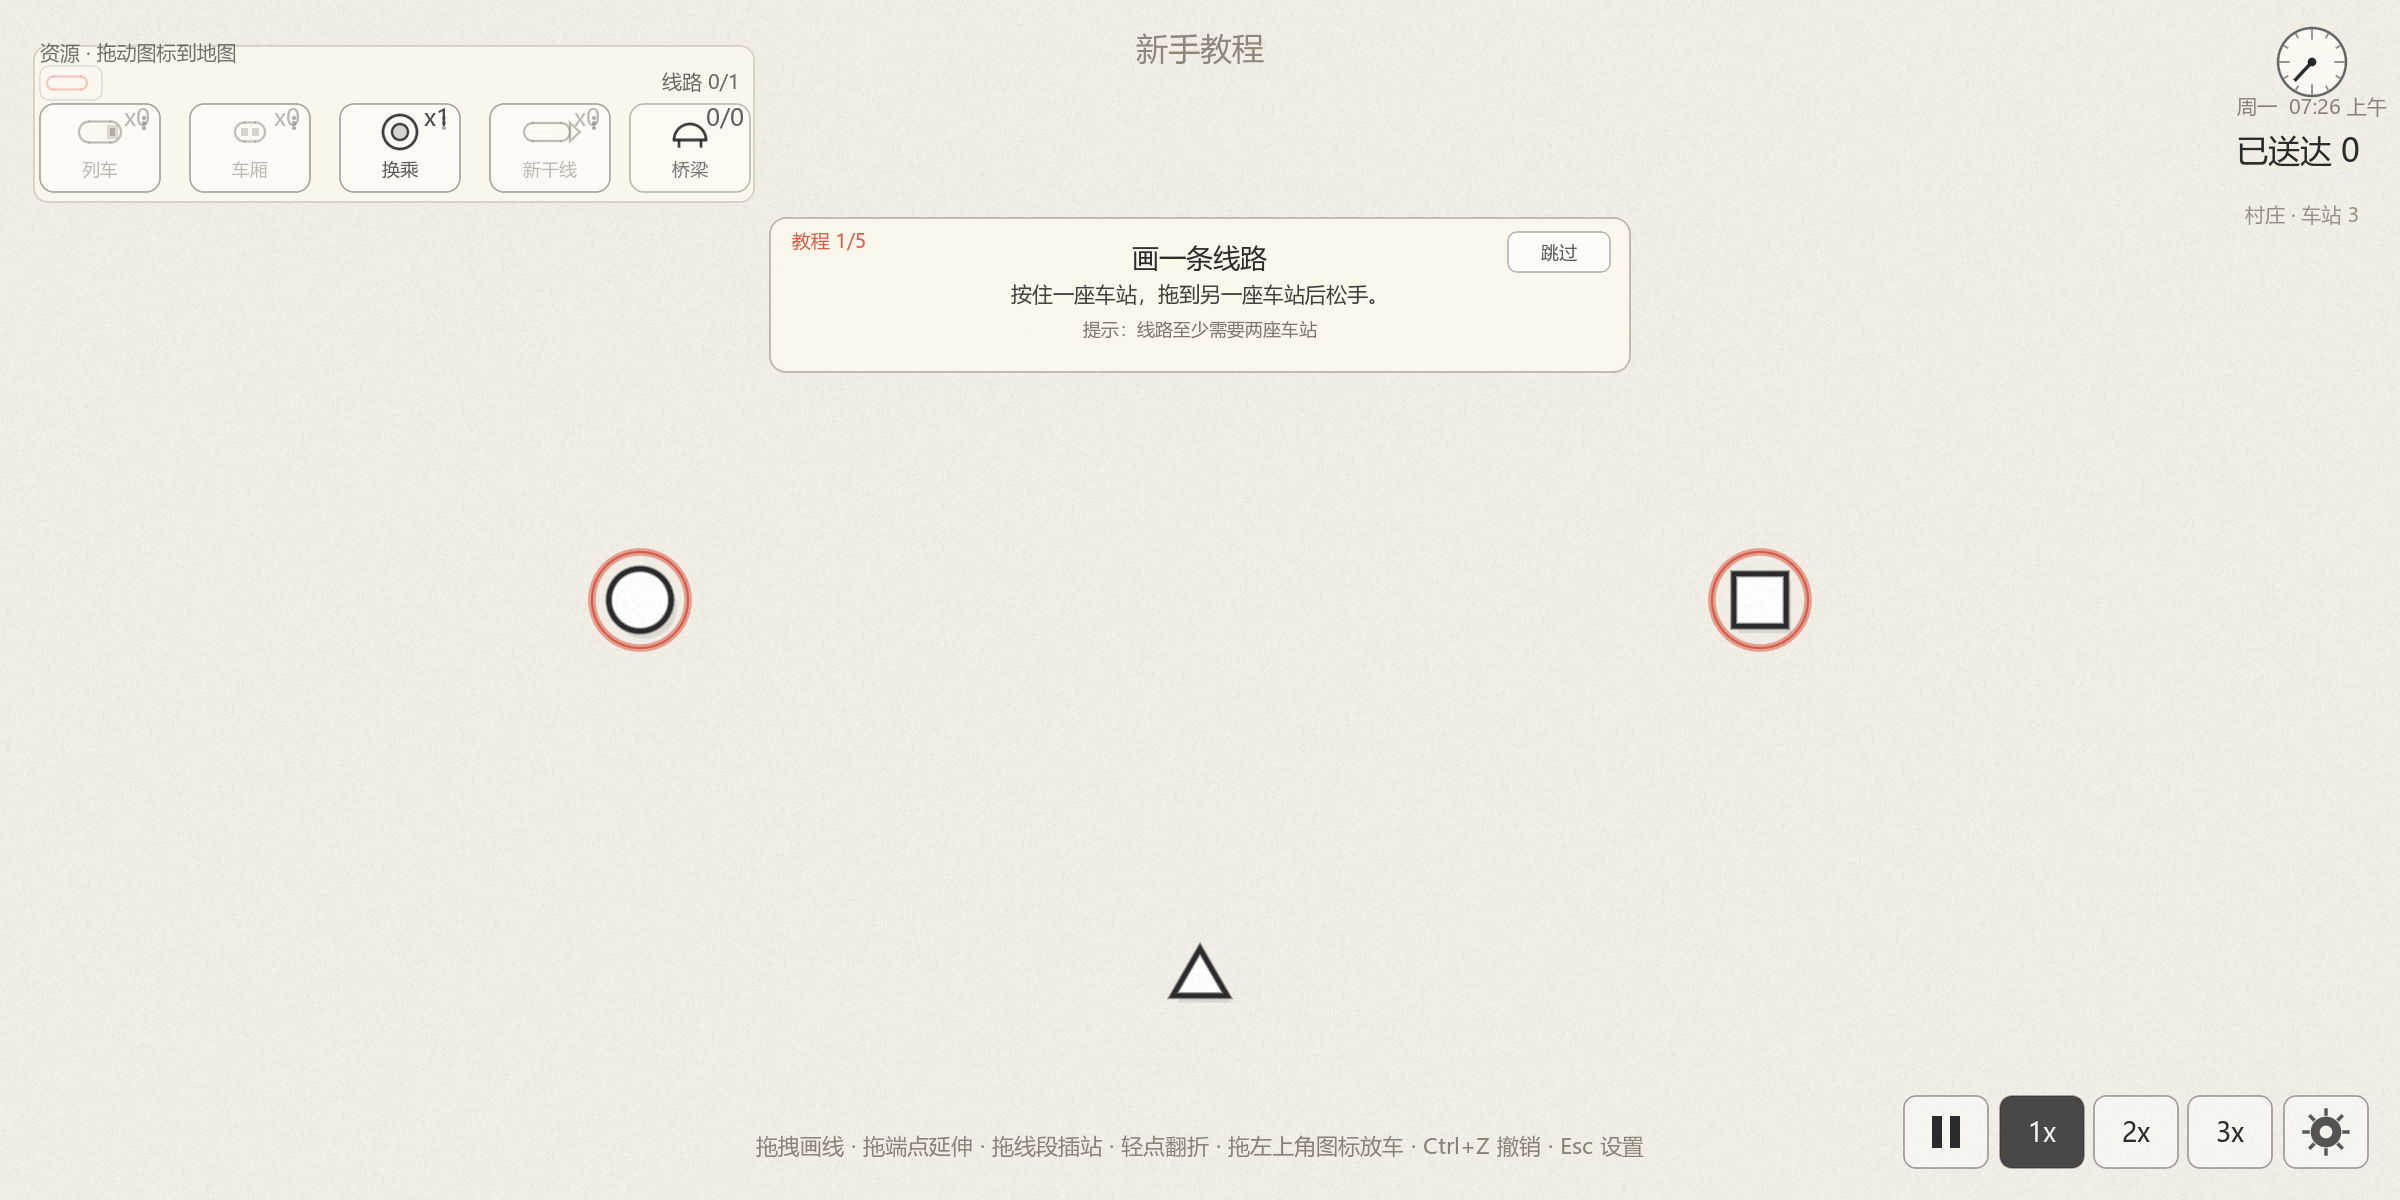
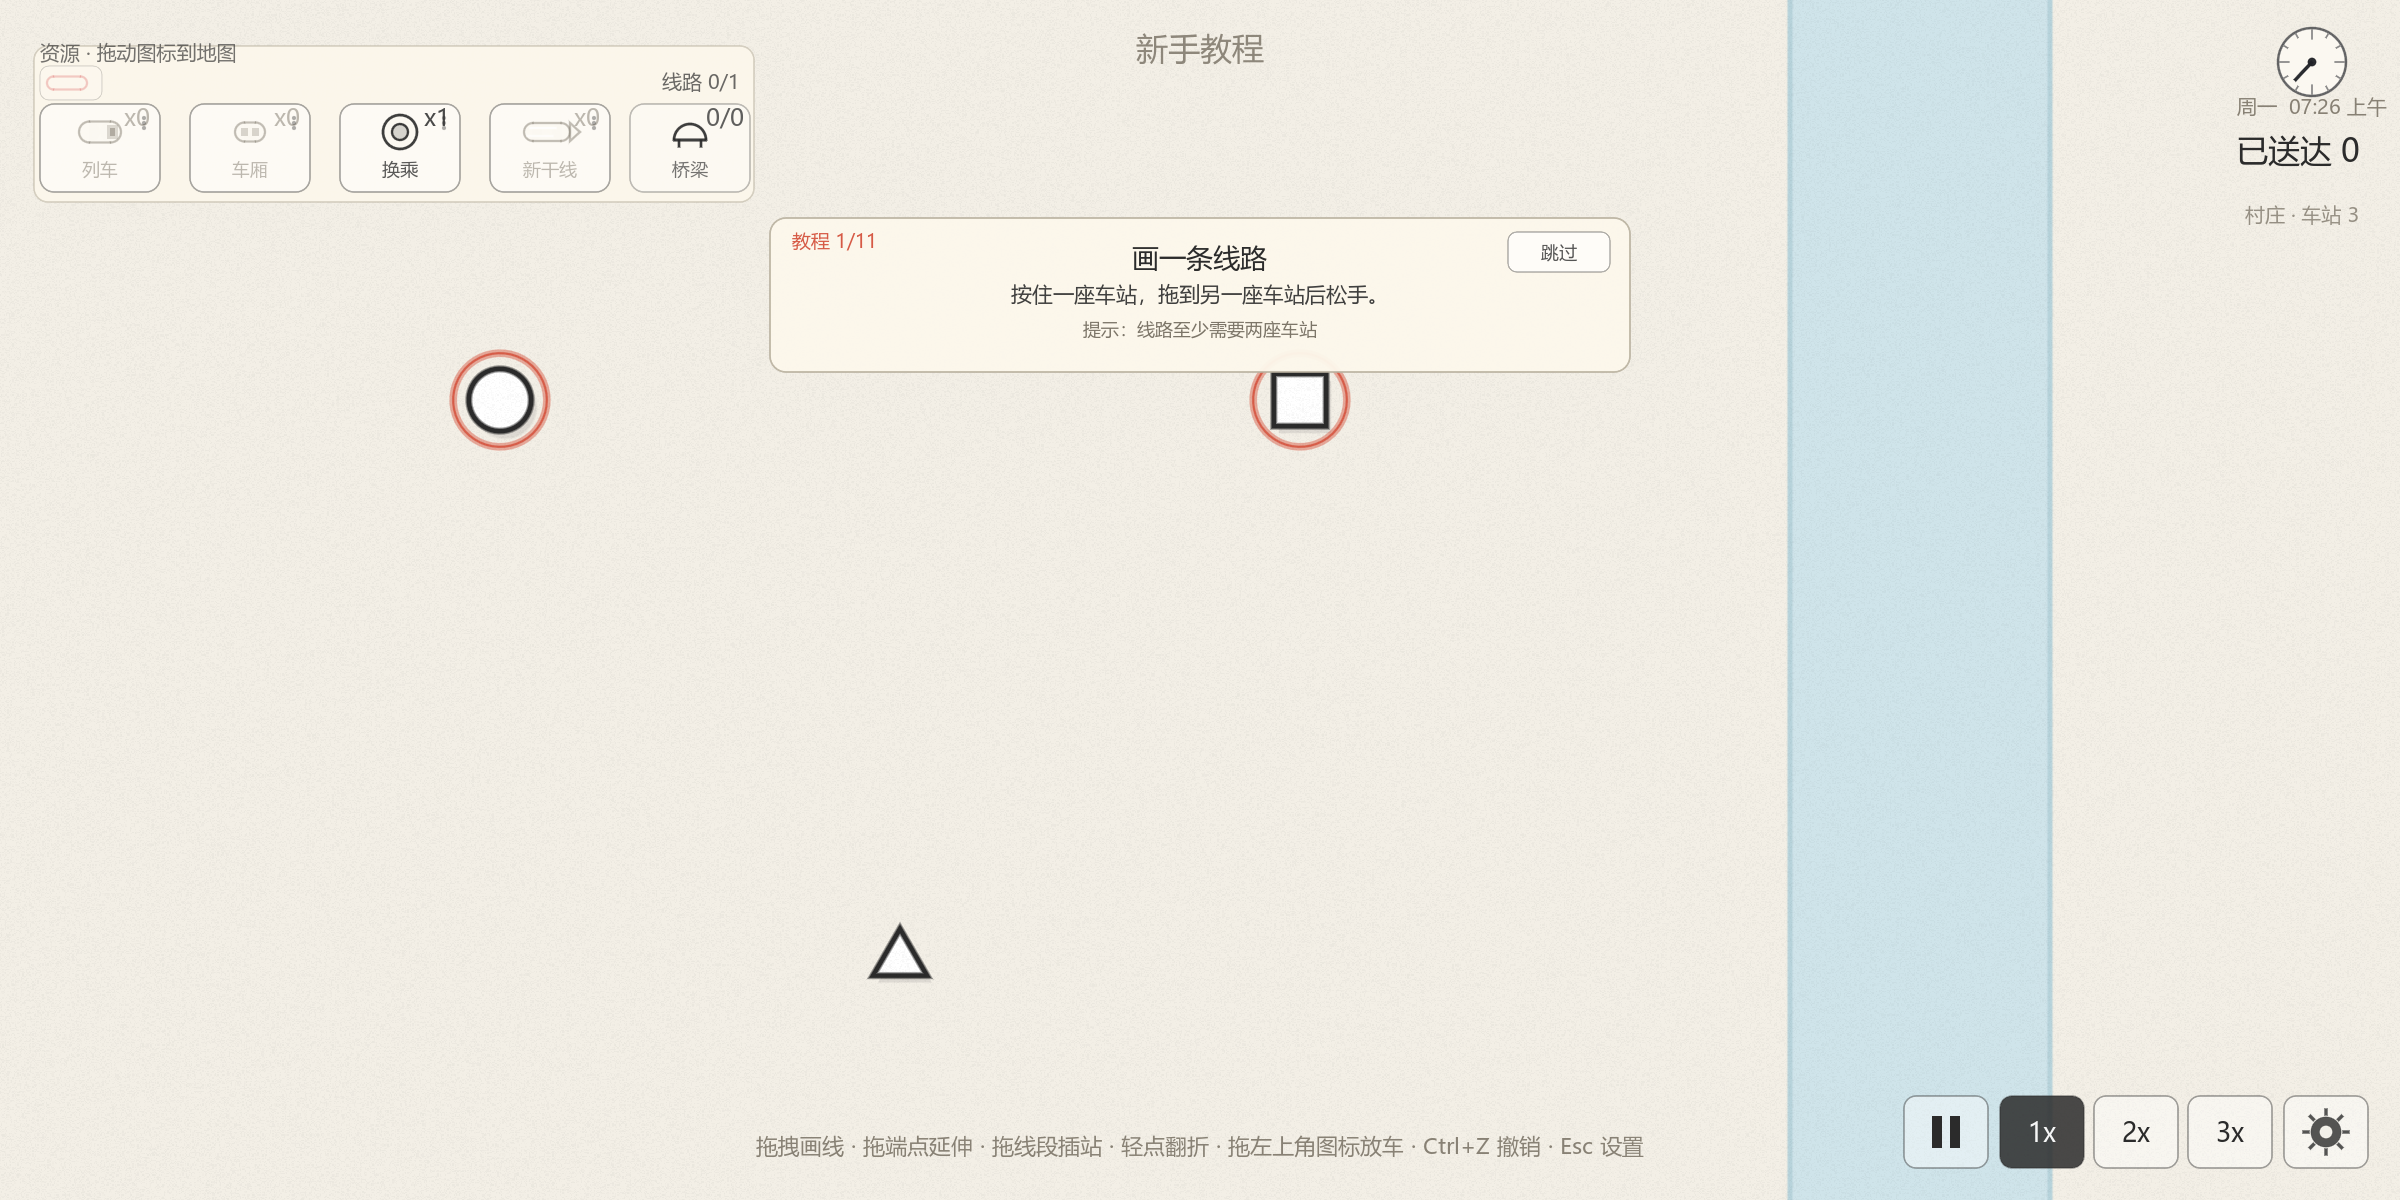
Expand tutorial to 11 steps covering editing, loops, bridges, transfers and upgrades
- Tutorial now starts with three stations, then progressively introduces a fourth
  station, loop closing, a river, a second line + bridge, a second train and a
  transfer passenger.
- Step 11 uses the normal weekly-card flow to teach upgrades; tutorial still
  grants no best score and disables auto-assignment so vehicle steps are manual.
- Fixed tutorial river layout and station positions; added Simulation.offer_week_reward
  to reuse the existing HUD/week card path. Updated mode card, screenshots/docs.
- 844 checks; APK re-exported.

diff --git a/README.md b/README.md
@@ -180,8 +180,19 @@
 
 ### 新手教程（模式菜单第 5 张卡 / 按 5）
 
-- 固定三座车站、干净地图、不会因拥堵失败，专注学会基础操作
-- 5 步引导：画第一条线 → 接入第三站 → 拖列车上线 → 挂一节车厢 → 送达第一位乘客
+- 固定站、干净地图、不会因拥堵失败，专注学会基础操作；后段会解锁新站、第二线路和桥梁
+- 11 步引导：
+  1. 画第一条线
+  2. 接入第三站
+  3. 拖列车上线
+  4. 挂一节车厢
+  5. 送达第一位乘客
+  6. 插入第四座车站
+  7. 闭合成环线
+  8. 跨河建第二条线
+  9. 给第二条线发车
+  10. 完成一次换乘送达
+  11. 选择一张每周升级卡
 - 当前步骤带呼吸高亮环、操作说明和「跳过」按钮；完成后可直接开始经典模式或返回菜单
 - 教程不写入最高分，也不进入排行榜
 
@@ -381,7 +392,7 @@ $godot = "D:\Downloads\06_游戏与Flash资源\Godot_v4.7.2-stable_win64.exe\God
 ```powershell
 $godot = "D:\Downloads\06_游戏与Flash资源\Godot_v4.7.2-stable_win64.exe\Godot_v4.7.2-stable_win64_console.exe"
 & $godot --headless --path . --script res://tests/run_tests.gd
-# 期望输出：TESTS PASSED (832 checks)
+# 期望输出：TESTS PASSED (844 checks)
 ```
 
 覆盖：八向几何与弯曲翻转、弧长采样、网络增删、画线/撤销/重排/翻转/插站/停留移除手势、换乘寻路、
@@ -498,7 +509,7 @@ view/                     表现层（Node2D，只读模型）
 input/line_editor.gd      画线手势状态机（IDLE / DRAFT / REORDER / SEGMENT）+ Esc 设置信号
 ui/hud.gd                 资源/分数、周抽卡、换乘点选、模式菜单、暂停设置、结束遮罩（双语）
 tools/demo_setup.gd       截图用确定性布局
-tests/                    headless 测试（832 checks）
+tests/                    headless 测试（844 checks）
 export_presets.cfg        Windows Desktop 导出预设
 art/shaders/paper_grain.gdshader  极轻纸纹
 docs/设计方案.md           完整实现方案（机制拆解 / 架构 / 里程碑）

diff --git a/docs/设计方案.md b/docs/设计方案.md
@@ -21,7 +21,7 @@
 > **城镇五阶段发展（开局固定 3 站，形状逐步解锁、相机 2.0→1.0）**、**2400×1200 窗口/大地图与更多水系**、
 > 列车放大 1.5 倍并绘制车头、可点击倍速、
 > **初始 3 条 / 上限 7 条线路**、**闭合环线（列车单向循环、接缝处首末手柄分开）**、
-> 存档与设置、中英双语、Windows 导出、地图编辑器（自由画河/分享码）、Android APK 导出、Supabase 云端排行榜/每日挑战/地图大厅。headless 测试 832 checks 全通过，截图见 `docs/images/`。
+> 存档与设置、中英双语、Windows 导出、地图编辑器（自由画河/分享码）、Android APK 导出、Supabase 云端排行榜/每日挑战/地图大厅。headless 测试 844 checks 全通过，截图见 `docs/images/`。
 > 运行/测试/导出说明见 [README](../README.md)。
 
 ---
